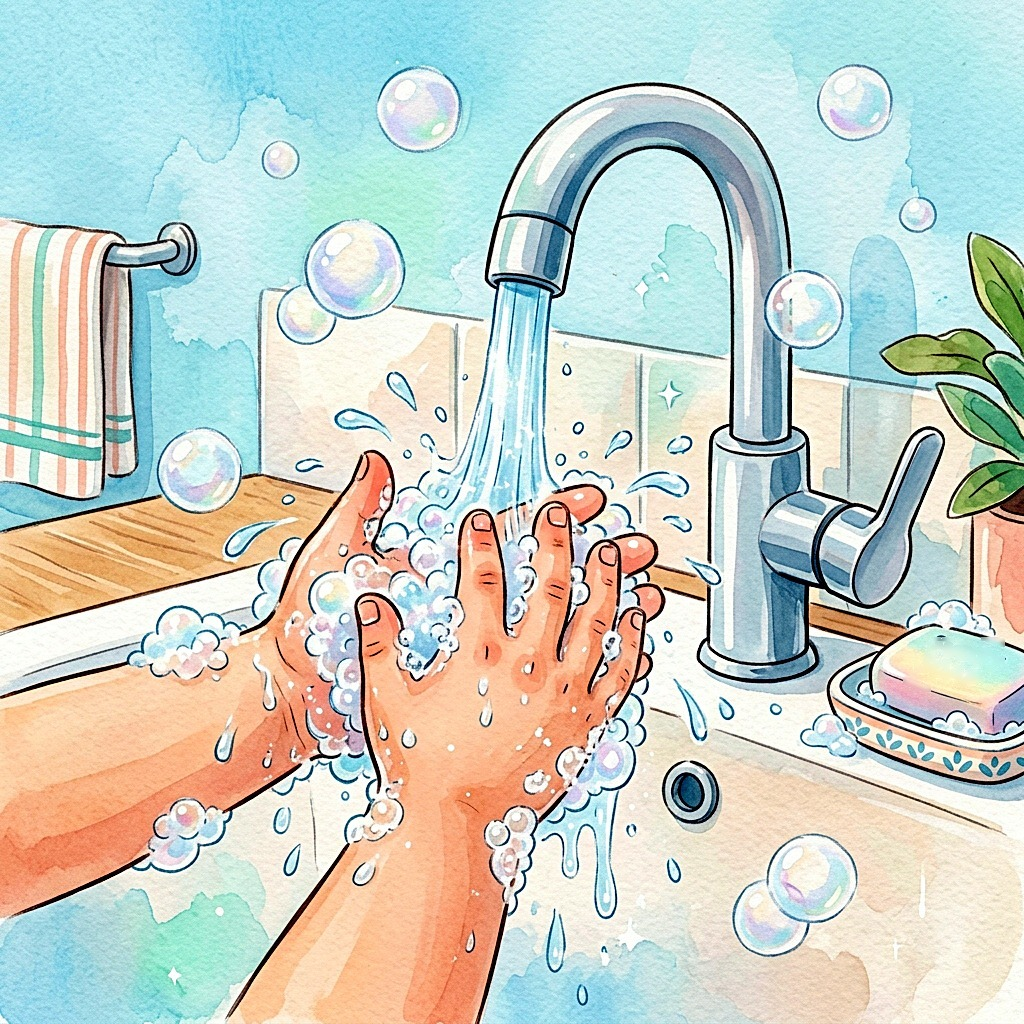
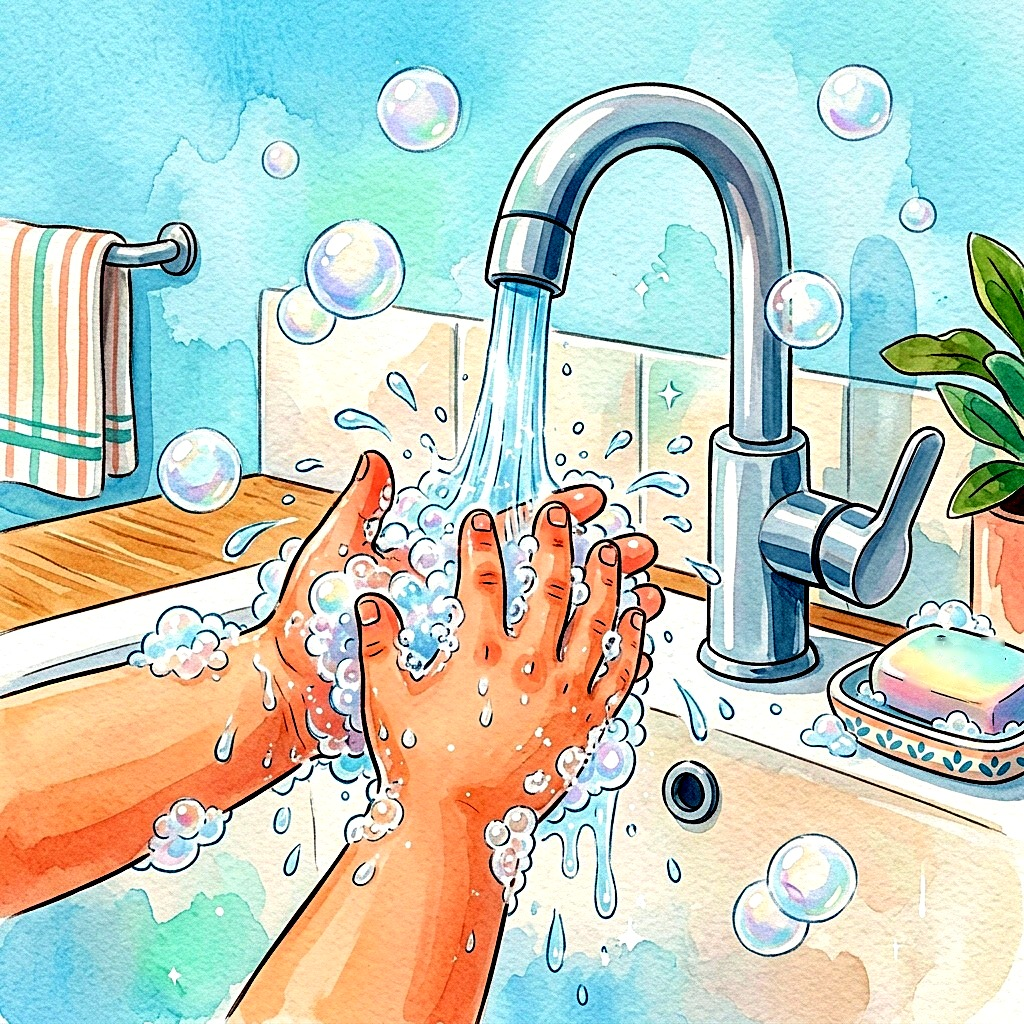
wash-hands: darker midtones and more contrast, in line with the other images
Measured contrast (std of luminance) 48.7, lowest of all images, brightness
204; gamma 1.15 and contrast x1.3 bring it to 58.2 and 198.5 (brush-teeth
61.5 and 197.9). Google Lens Exact matches on the final file: none.

diff --git a/output/sl-vsakdan.html b/output/sl-vsakdan.html
@@ -253,11 +253,11 @@
         </div>
         <div class="rt-check"></div>
       </div>
-      <div class="rt-pic pic-right" style="--step: #EC4899; --bg: #FAF1E0; --ink: #8F3476; grid-row: 8 / span 4;">
+      <div class="rt-pic pic-right" style="--step: #EC4899; --bg: #FFF9E0; --ink: #8F3476; grid-row: 8 / span 4;">
         <img src="../images/wash-hands.jpg" alt="Umij roke" />
         <div class="rt-num">4</div>
       </div>
-      <div class="rt-card card-right" style="--step: #EC4899; --bg: #FAF1E0; --ink: #8F3476; grid-row: 9 / span 2;">
+      <div class="rt-card card-right" style="--step: #EC4899; --bg: #FFF9E0; --ink: #8F3476; grid-row: 9 / span 2;">
         <div class="rt-text">
           <div class="rt-label">UMIJ ROKE</div>
           <div class="rt-time"><span class="blank"></span>:<span class="blank"></span></div>
@@ -314,11 +314,11 @@
         </div>
         <div class="rt-check"></div>
       </div>
-      <div class="rt-pic pic-right" style="--step: #F97316; --bg: #FAF1E0; --ink: #964B2E; grid-row: 4 / span 4;">
+      <div class="rt-pic pic-right" style="--step: #F97316; --bg: #FFF9E0; --ink: #964B2E; grid-row: 4 / span 4;">
         <img src="../images/wash-hands.jpg" alt="Umij roke" />
         <div class="rt-num">2</div>
       </div>
-      <div class="rt-card card-right" style="--step: #F97316; --bg: #FAF1E0; --ink: #964B2E; grid-row: 5 / span 2;">
+      <div class="rt-card card-right" style="--step: #F97316; --bg: #FFF9E0; --ink: #964B2E; grid-row: 5 / span 2;">
         <div class="rt-text">
           <div class="rt-label">UMIJ ROKE</div>
           <div class="rt-time"><span class="blank"></span>:<span class="blank"></span></div>

diff --git a/web/data.js b/web/data.js
@@ -459,5 +459,5 @@ window.SHEET_EDGES = {
   "story": ["#C8CCDE", "#D1D8EB"],
   "tidy-toys": ["#F7DEBD", "#FFFEEA"],
   "toilet": ["#D4F3E9", "#BCE9D7"],
-  "wash-hands": ["#ECE9D6", "#FAF1E0"],
+  "wash-hands": ["#EFEED3", "#FFF9E0"],
 };
